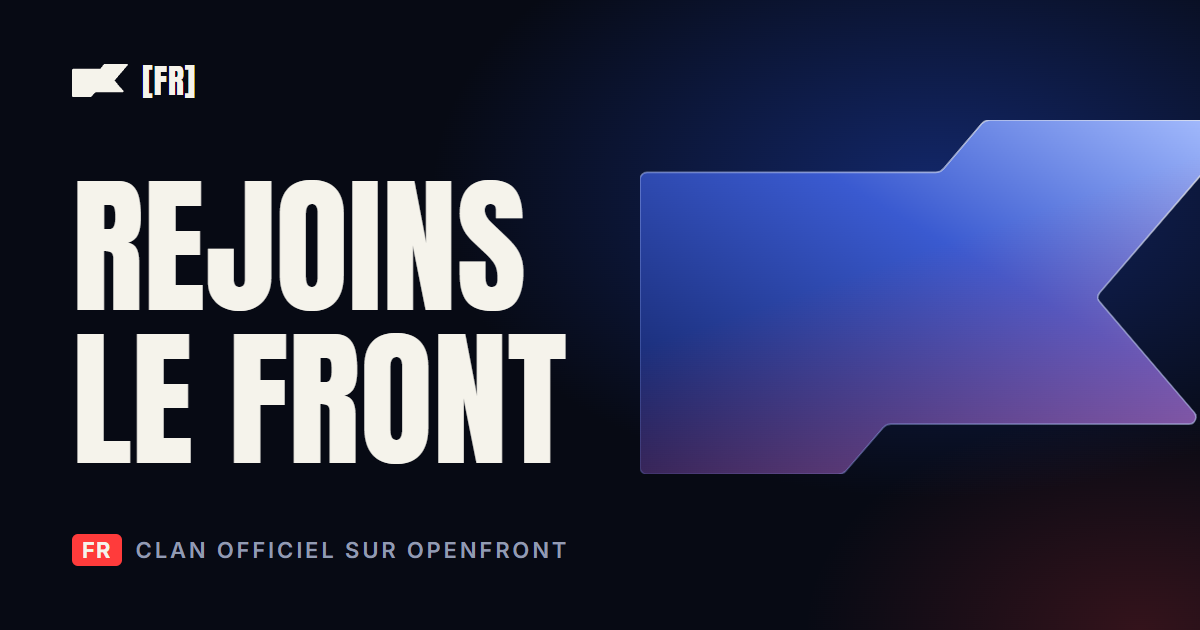
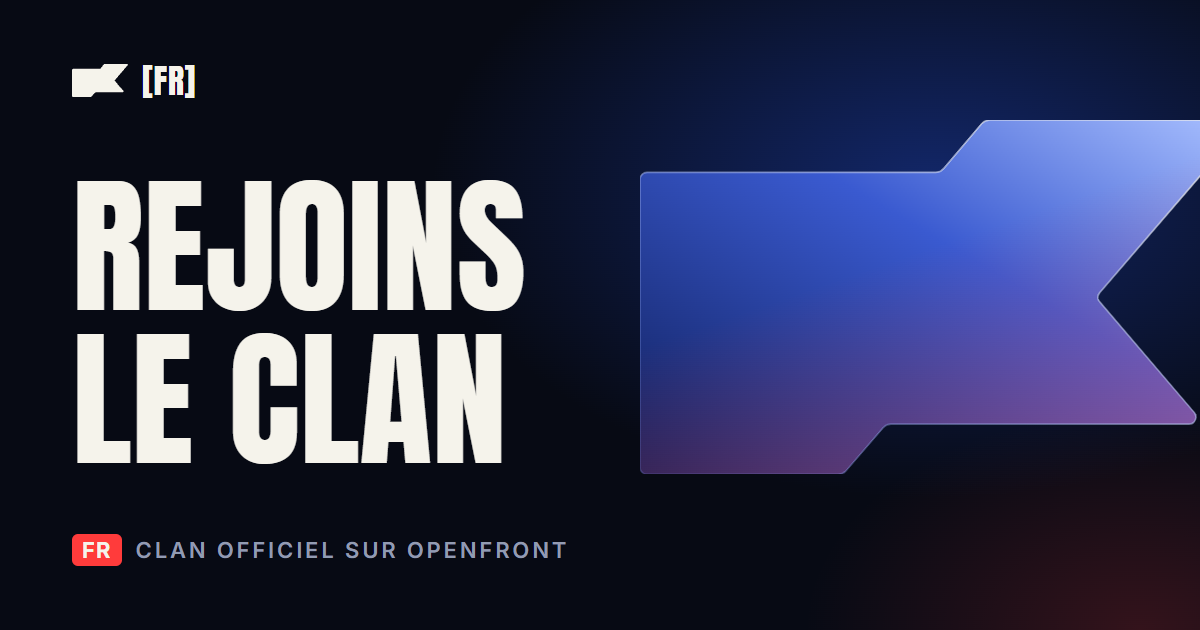
Accueil et apercu : Rejoins le clan

Changed region(s): [[0.185, 0.5127, 0.4933, 0.754]]

diff --git a/src/page.html b/src/page.html
@@ -432,7 +432,7 @@ footer p { margin: 0 0 4px; max-width: 70em; }
     </svg>
     <div class="wrap hero-inner">
       <p class="tag"><b>[FR]</b> Clan officiel sur OpenFront</p>
-      <h1>Rejoins<br>le front</h1>
+      <h1>Rejoins<br>le clan</h1>
       <p class="lede" id="lede"></p>
       <div class="actions">
         <a class="btn discord" href="https://discord.gg/f7xSuReUfe" target="_blank" rel="noopener"><svg aria-hidden="true"><use href="#discord"/></svg>Rejoindre le clan</a>

diff --git a/assets/og-card.html b/assets/og-card.html
@@ -25,5 +25,5 @@
   <use href="#p" fill="none" stroke="url(#r)" stroke-width="12"/>
 </svg>
 <div class="brand"><svg viewBox="0 0 4401 2600" aria-hidden="true"><use href="#p" fill="#f5f3eb"/></svg>[FR]</div>
-<h1>Rejoins<br>le front</h1>
+<h1>Rejoins<br>le clan</h1>
 <p class="tag"><b>FR</b> Clan officiel sur OpenFront</p>
